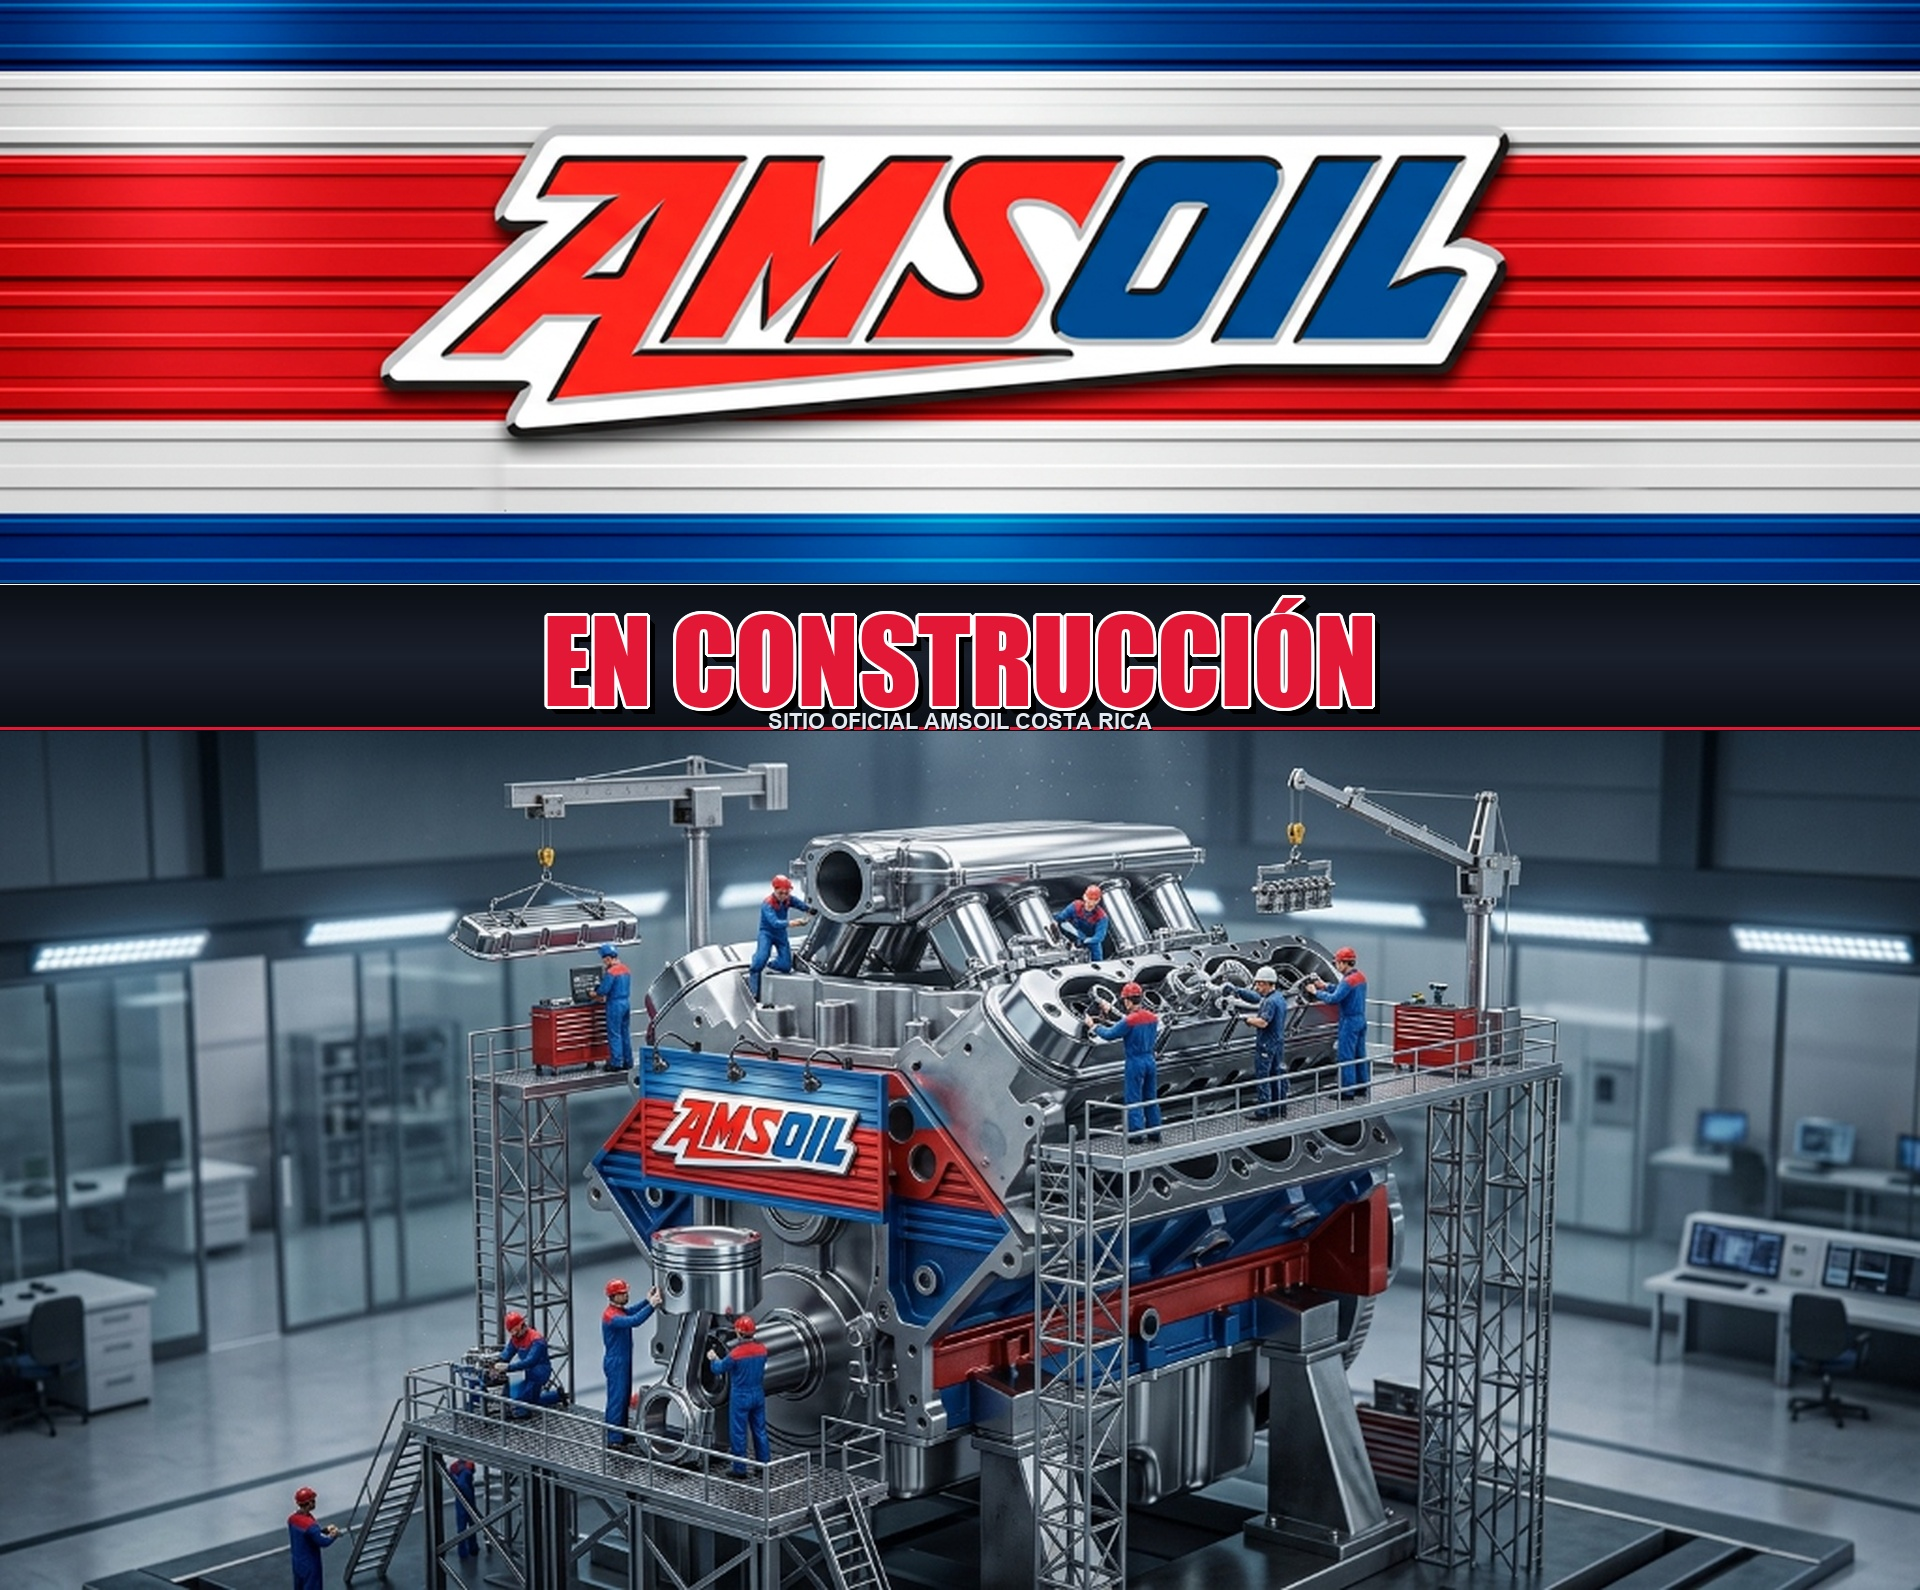
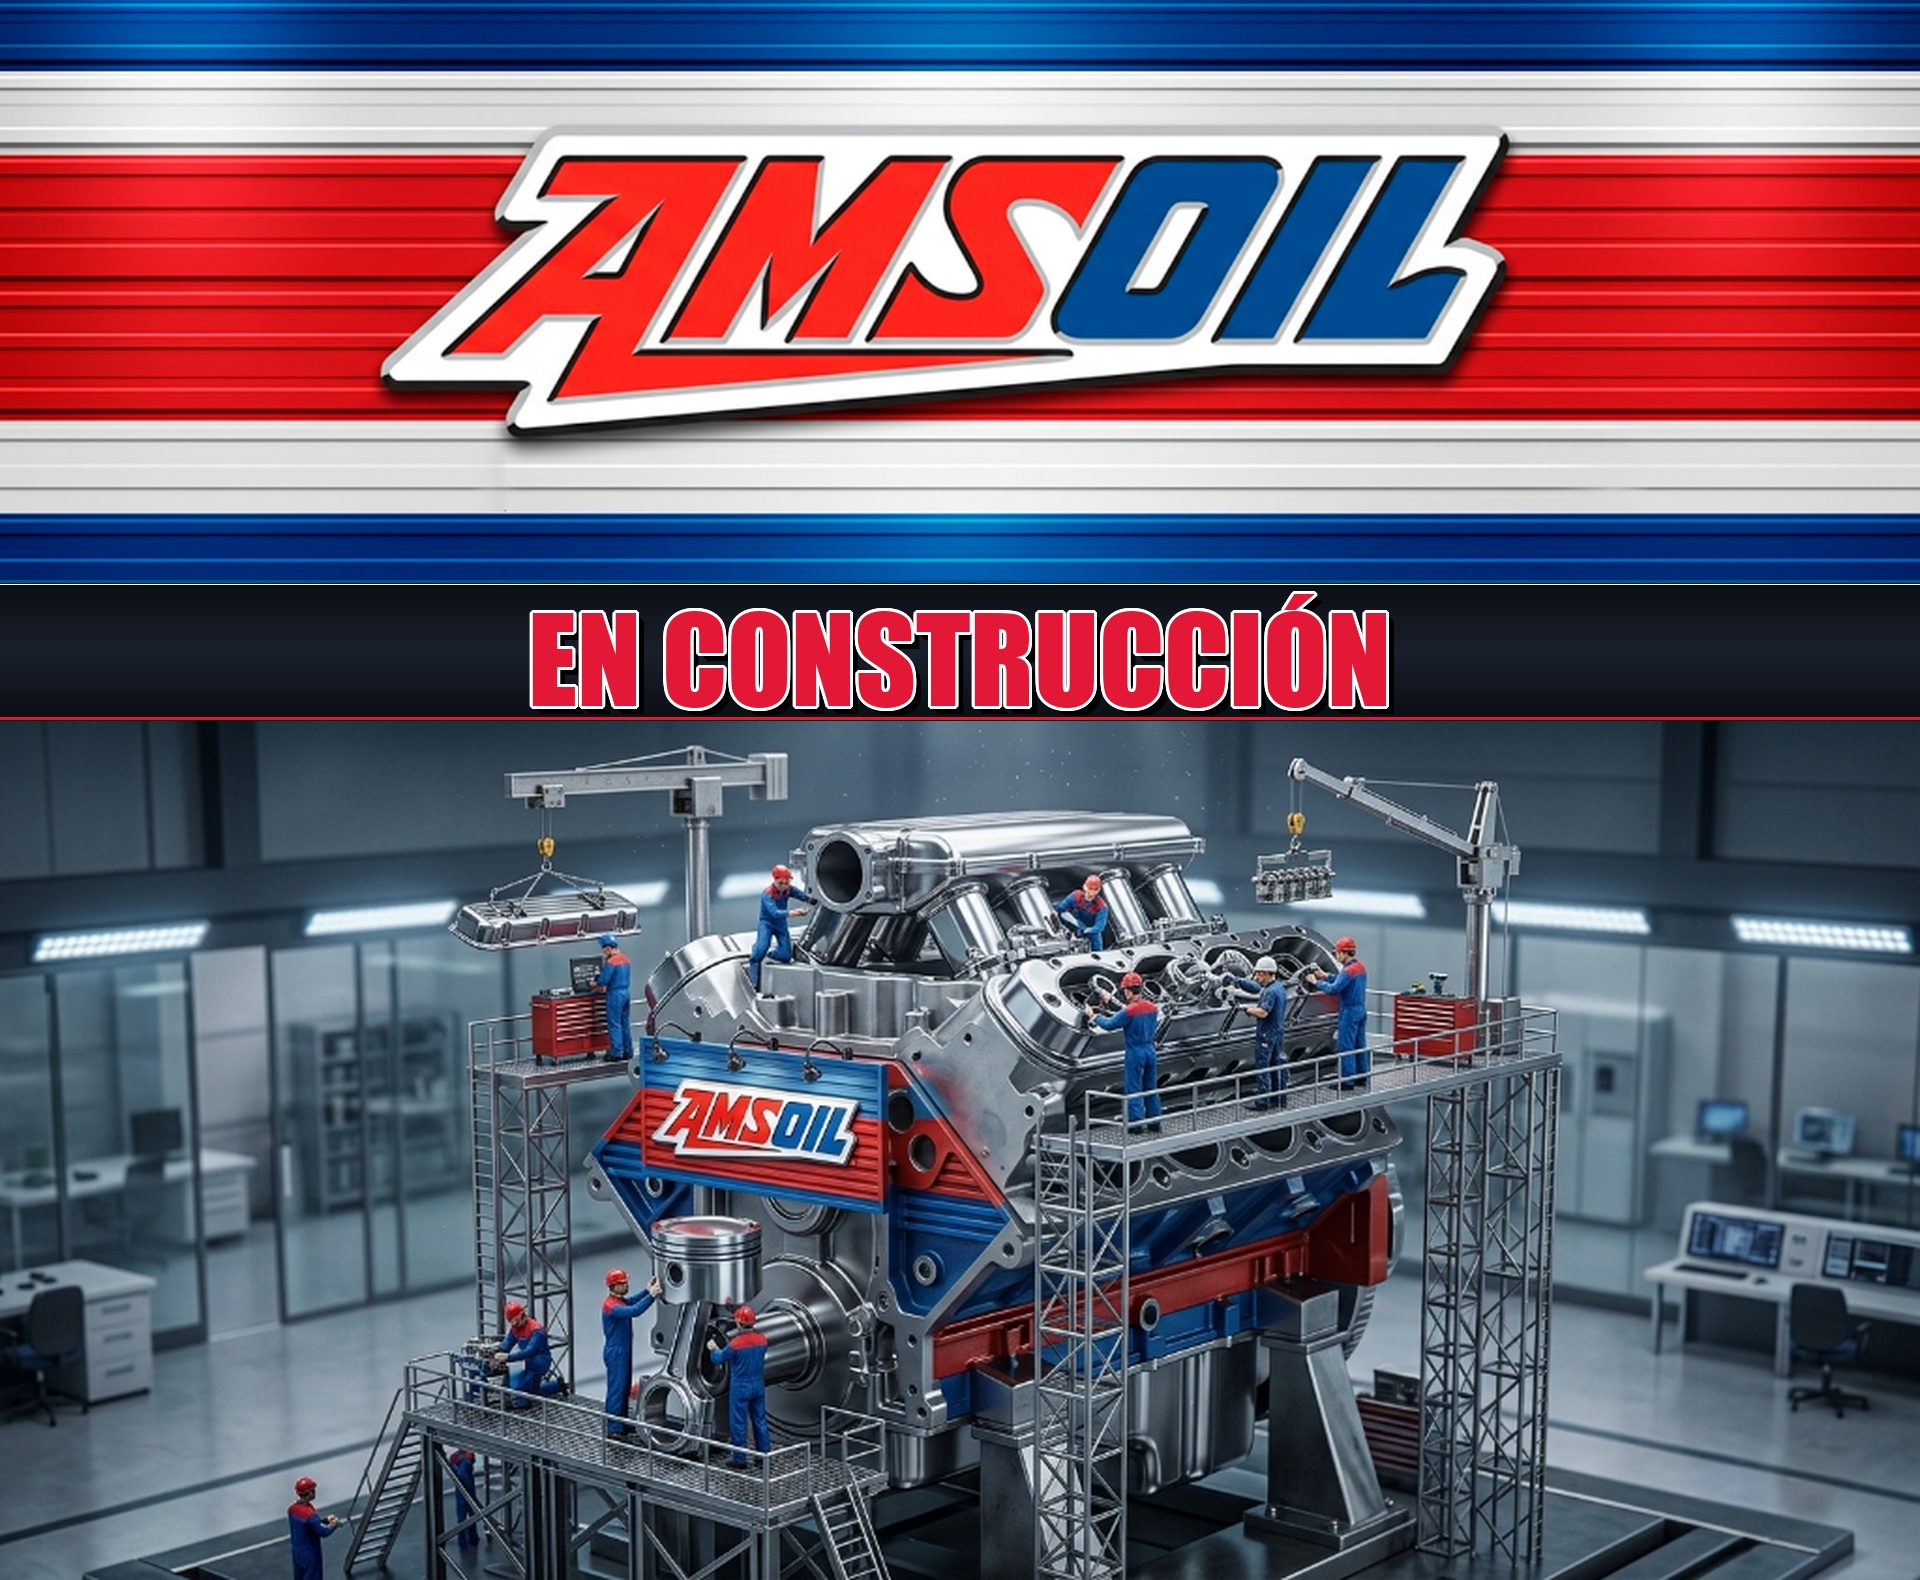
feat: rótulo EN CONSTRUCCIÓN limpio y centrado sin subtítulo de Costa Rica

diff --git a/index.html b/index.html
@@ -47,11 +47,11 @@
 
     <main class="fullwidth-showcase">
         <img 
-            src="assets/banners/amsoil-cr-completo-en-construccion.jpg?v=6" 
+            src="assets/banners/amsoil-cr-completo-en-construccion.jpg?v=7" 
             alt="AMSOIL Costa Rica - En Construcción"
             class="fullwidth-img"
             width="1920"
-            height="1590"
+            height="1580"
         >
     </main>
 
